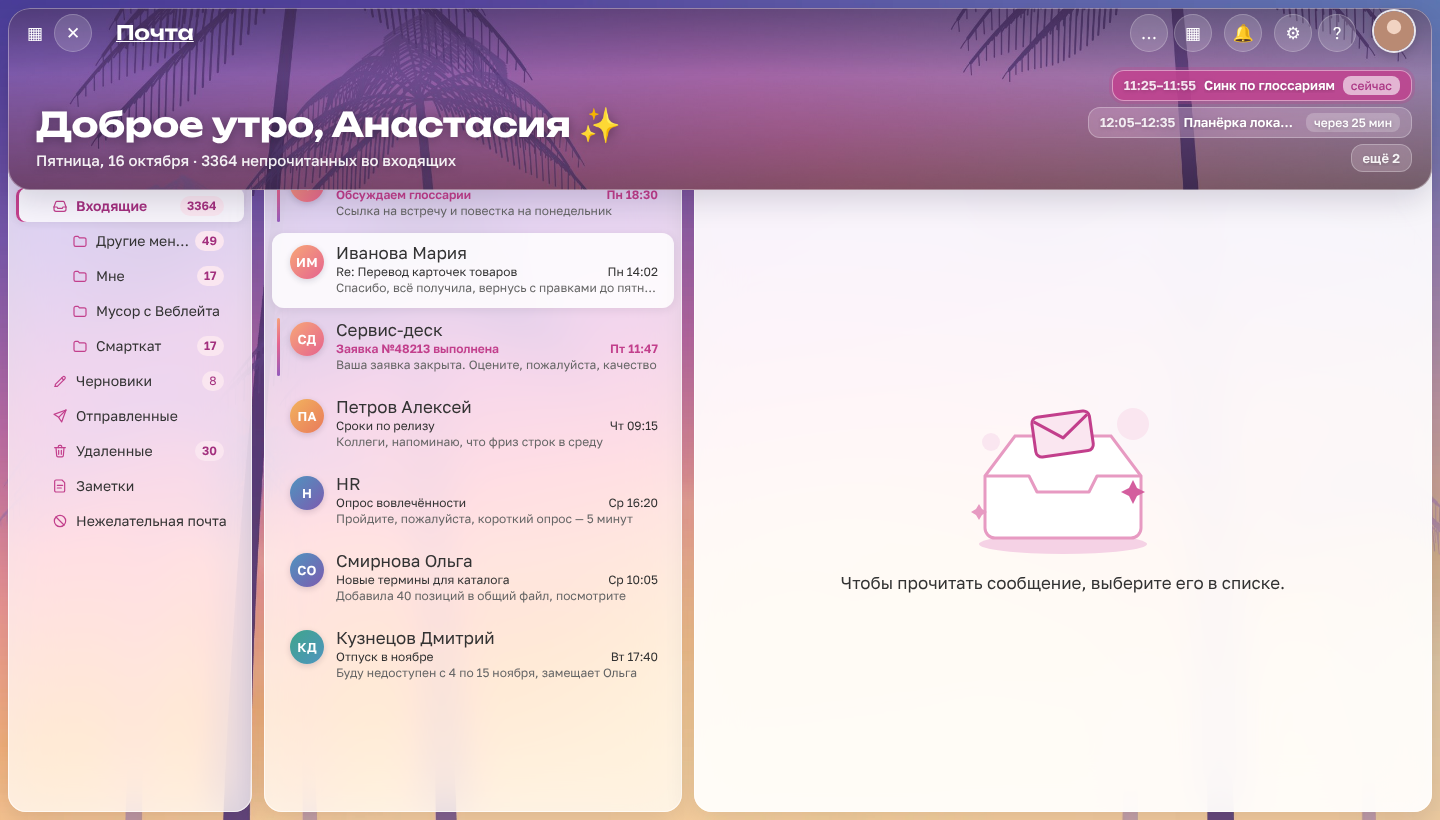
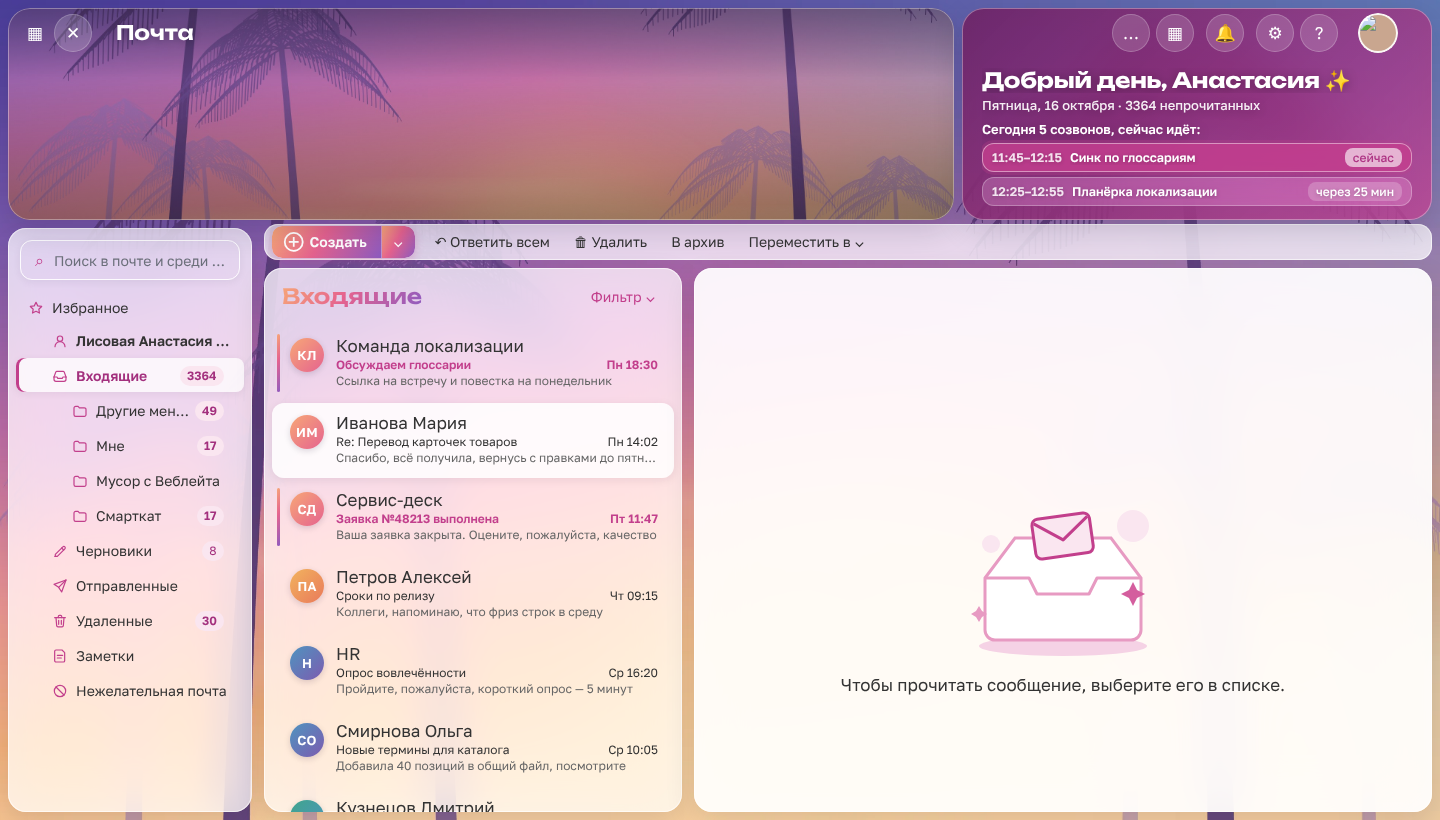
OWA Restyle 0.5: split header with a widget, tidy toolbar buttons
- Header splits into a wide picture banner and a widget card on the
  right holding the OWA buttons, greeting, date and today's calls;
  the widget can have its own picture; 'one wide banner' is still
  available in settings
- Calls list sized to the header height, no truncated greeting
- Toolbar buttons are 32px and vertically centred, 'Create' is a
  proper split button

Claude-Session: https://claude.ai/code/session_01MUPSdyJMeKqe5QhkT4sJWG

diff --git a/owa-restyle/glass.js b/owa-restyle/glass.js
@@ -110,6 +110,18 @@
     out.push("html ._n_q1::before{content:\"\";position:absolute;inset:0;border-radius:14px;background:var(--ors-glass);" + bf +
       ";box-shadow:inset 0 0 0 1px var(--ors-glass-line);z-index:-1;pointer-events:none}");
     out.push("html ._fce_a{border-bottom:0!important}");
+    // Кнопки на панели: ровная высота 32px по центру «пилюли», «Создать» — аккуратная кнопка с отдельной стрелкой.
+    out.push("html ._n_q1 ._n_r1,html ._n_q1 ._fce_a{height:100%!important;box-sizing:border-box}");
+    out.push("html ._n_q1 ._fce_a{display:flex!important;align-items:center;padding:0 6px!important}");
+    out.push("html ._n_q1 ._fce_b{display:flex!important;align-items:center;height:auto!important}");
+    out.push("html ._n_q1 ._fce_e{display:inline-flex!important;align-items:center;height:32px!important;margin:0 2px!important;padding:0!important;vertical-align:middle;border-radius:10px!important;overflow:hidden}");
+    out.push("html ._n_q1 ._fce_e>button{height:32px!important;line-height:32px!important;margin:0!important;padding:0 10px!important;display:inline-flex!important;align-items:center;gap:6px;border-radius:10px}");
+    out.push("html ._n_q1 ._fce_e>button:hover{background:rgba(255,255,255,.55)!important}");
+    out.push("html ._n_q1 ._fce_e>button .owaimg{line-height:1!important;margin:0!important;vertical-align:middle}");
+    out.push("html ._n_q1 button[title^=\"Создать новое сообщение\"]{padding:0 14px 0 12px!important;border-radius:10px 0 0 10px!important;color:#fff!important;font-weight:600!important}");
+    out.push("html ._n_q1 button[title^=\"Создать новое сообщение\"] ~ button[title^=\"Отобразить больше новых\"]{width:34px!important;padding:0!important;justify-content:center;border-radius:0 10px 10px 0!important;" +
+      "border-left:1px solid rgba(255,255,255,.35)!important}");
+    out.push("html ._n_q1 ._fce_e:has(button[title^=\"Создать новое сообщение\"]){box-shadow:0 2px 8px " + rgba(t.primary, .3) + ";margin-right:8px!important}");
 
     // Внутри карточек всё, что было белым/серым, — прозрачное.
     out.push([
@@ -193,28 +205,57 @@
       out.push("html #primaryHeaderView{height:" + H + "px!important;z-index:1}");
       out.push(["inset: 50px", "inset:50px", "top: 50px", "top:50px"].map(function (v) { return "html #primaryContainer>div[style*=\"" + v + "\"],html #primaryContainer>a[style*=\"" + v + "\"]"; }).join(",") + "{top:" + H + "px!important}");
       out.push("html ._n_c{height:" + H + "px!important}");
-      out.push("html #primaryHeaderView::before{content:\"\";position:absolute;inset:8px 8px 0 8px;border-radius:22px;z-index:-1;pointer-events:none;" +
-        "background:linear-gradient(180deg,rgba(0,0,0,.28) 0,rgba(0,0,0,0) 70px),linear-gradient(0deg,rgba(0,0,0,.36) 0,rgba(0,0,0,0) 65%)," + heroBg + ";" +
-        "box-shadow:inset 0 0 0 1px rgba(255,255,255,.35),0 10px 30px rgba(20,10,40,.15)}");
+      var split = s.heroLayout !== "wide" && H >= 150;
+      var card = "border-radius:22px;z-index:-1;pointer-events:none;box-shadow:inset 0 0 0 1px rgba(255,255,255,.35),0 10px 30px rgba(20,10,40,.15)";
+      var shade = "linear-gradient(180deg,rgba(0,0,0,.28) 0,rgba(0,0,0,0) 70px),linear-gradient(0deg,rgba(0,0,0,.36) 0,rgba(0,0,0,0) 65%),";
+      out.push(":root{--ors-w:min(470px,38vw)}");
+      out.push("html #primaryHeaderView::before{content:\"\";position:absolute;" +
+        (split ? "inset:8px calc(var(--ors-w) + 16px) 0 8px;" : "inset:8px 8px 0 8px;") + card + ";background:" + shade + heroBg + "}");
       out.push("html #O365_NavHeader,html #O365_NavHeader.o365cs-topnavBGImage,html .o365cs-topnavBGColor-2{background:transparent!important;margin:8px 8px 0;border-radius:22px 22px 0 0}");
-      out.push("html .ors-hero{position:absolute;left:36px;right:36px;bottom:20px;color:#fff;pointer-events:none;text-shadow:0 2px 12px rgba(0,0,0,.35)}");
-      out.push("html .ors-hero b{display:block;font:700 " + (H >= 150 ? 34 : 24) + "px/1.15 var(--ors-display, var(--ors-font, \"Segoe UI\", sans-serif));letter-spacing:-.01em}");
-      out.push("html .ors-hero span{display:block;margin-top:6px;font:500 15px/1.3 var(--ors-font, \"Segoe UI\", sans-serif);opacity:.92}");
-      if (H < 110) out.push("html .ors-hero span{display:none}");
-      out.push("html .ors-hero{right:330px}");
-      out.push("html .ors-meet{position:absolute;right:28px;bottom:18px;z-index:1;display:flex;flex-direction:column;align-items:flex-end;gap:6px;max-width:300px}");
-      out.push("html .ors-chip{display:flex;align-items:center;gap:8px;max-width:300px;padding:6px 12px;border-radius:12px;text-decoration:none!important;color:#fff!important;" +
+
+      // Общий вид текста и плашек созвонов.
+      out.push("html .ors-hero{position:absolute;color:#fff;pointer-events:none;text-shadow:0 2px 12px rgba(0,0,0,.35)}");
+      out.push("html .ors-hero>b{display:block;letter-spacing:-.01em;font-family:var(--ors-display, var(--ors-font, \"Segoe UI\", sans-serif));font-weight:700}");
+      out.push("html .ors-hero>span{display:block;font-family:var(--ors-font, \"Segoe UI\", sans-serif)}");
+      out.push("html .ors-hero>.ors-date{opacity:.92;font-weight:500}");
+      out.push("html .ors-hero>.ors-sum{font-weight:600}");
+      out.push("html .ors-hero [hidden]{display:none!important}");
+      out.push("html .ors-meet{display:flex;flex-direction:column;gap:5px}");
+      out.push("html .ors-chip{pointer-events:auto;display:flex;align-items:center;gap:8px;padding:6px 12px;border-radius:12px;text-decoration:none!important;color:#fff!important;" +
         "background:rgba(255,255,255,.18);box-shadow:inset 0 0 0 1px rgba(255,255,255,.28);" + bf + ";font:500 13px/1.25 var(--ors-font, \"Segoe UI\", sans-serif);" +
-        "text-shadow:0 1px 4px rgba(0,0,0,.25);transition:background-color .15s}");
+        "text-shadow:0 1px 4px rgba(0,0,0,.25);transition:background-color .15s;min-width:0}");
       out.push("html .ors-chip:hover{background:rgba(255,255,255,.3)}");
       out.push("html .ors-chip i{font-style:normal;font-weight:600;opacity:.85;white-space:nowrap}");
-      out.push("html .ors-chip b{font-weight:600;white-space:nowrap;overflow:hidden;text-overflow:ellipsis;min-width:0}");
+      out.push("html .ors-chip b{flex:1;font-weight:600;white-space:nowrap;overflow:hidden;text-overflow:ellipsis;min-width:0}");
       out.push("html .ors-chip em{font-style:normal;white-space:nowrap;padding:2px 8px;border-radius:8px;background:rgba(255,255,255,.22);font-size:12px}");
       out.push("html .ors-chip.now{background:" + rgba(t.primary, .82) + ";box-shadow:inset 0 0 0 1px rgba(255,255,255,.45),0 0 0 3px " + rgba(t.primary, .25) + "}");
       out.push("html .ors-chip.now em{background:#fff;color:" + t.dark + ";text-shadow:none;animation:orsPulse 2s ease-in-out infinite}");
       out.push("@keyframes orsPulse{50%{opacity:.6}}");
       out.push("html .ors-chip.allday i,html .ors-chip.more b,html .ors-chip.done b{opacity:.9}");
-      if (H < 150) out.push("html .ors-meet{bottom:auto;top:50%;transform:translateY(-10%)}");
+
+      if (split) {
+        // Виджет справа: своя картинка или градиент темы, внутри — кнопки OWA, приветствие и созвоны.
+        var widgetBg = extras.widgetImage
+          ? "linear-gradient(0deg,rgba(0,0,0,.55) 0,rgba(0,0,0,.18) 60%,rgba(0,0,0,.3) 100%),url(\"" + extras.widgetImage + "\") center " + (+s.widgetPos || 50) + "%/cover no-repeat"
+          : "linear-gradient(135deg," + rgba(t.darker, .86) + "," + rgba(t.primary, .74) + ")";
+        out.push("html #primaryHeaderView::after{content:\"\";position:absolute;top:8px;right:8px;bottom:0;width:var(--ors-w);" + card + ";background:" + widgetBg + ";" + bf + "}");
+        out.push("html .ors-hero{left:auto;right:28px;width:calc(var(--ors-w) - 40px);top:60px;bottom:14px;display:flex;flex-direction:column;justify-content:flex-end;overflow:hidden}");
+        out.push("html .ors-hero>b{font-size:" + (H >= 240 ? 24 : 21) + "px;line-height:1.2;white-space:nowrap;overflow:hidden;text-overflow:ellipsis;flex:none}");
+        out.push("html .ors-hero>.ors-date{margin-top:4px;font-size:13px}");
+        out.push("html .ors-hero>.ors-sum{margin-top:8px;font-size:13px}");
+        out.push("html .ors-hero>*{flex:none}");
+        out.push("html .ors-meet{margin-top:6px}");
+        out.push("html .ors-chip{padding:5px 10px;font-size:12.5px}");
+      } else {
+        out.push("html .ors-hero{left:36px;right:330px;bottom:20px}");
+        out.push("html .ors-hero>b{font-size:" + (H >= 150 ? 34 : 24) + "px;line-height:1.15}");
+        out.push("html .ors-hero>.ors-date,html .ors-hero>.ors-sum{margin-top:6px;font-size:15px;line-height:1.3}");
+        out.push("html .ors-hero>.ors-sum{margin-top:2px}");
+        if (H < 110) out.push("html .ors-hero>.ors-date,html .ors-hero>.ors-sum{display:none}");
+        out.push("html .ors-meet{position:absolute;right:-302px;bottom:-2px;width:300px;align-items:flex-end}");
+        out.push("html .ors-chip{max-width:300px}");
+        if (H < 150) out.push("html .ors-meet{bottom:auto;top:50%;transform:translateY(-50%)}");
+      }
     }
 
     // Своя картинка в пустой области чтения (пока письмо не открыто).

diff --git a/owa-restyle/content.js b/owa-restyle/content.js
@@ -29,12 +29,14 @@
           settings = s;
           var hero = s.heroImage && s.heroImage !== "wallpaper" &&
             (local.images || []).filter(function (i) { return i.id === s.heroImage; })[0];
+          var widget = s.widgetImage && s.widgetImage !== "none" &&
+            (local.images || []).filter(function (i) { return i.id === s.widgetImage; })[0];
           var reading = s.readingImage && s.readingImage !== "none" &&
             (local.images || []).filter(function (i) { return i.id === s.readingImage; })[0];
           // В календаре OWA вёрстка завязана на ширину Segoe UI — там оставляем родной шрифт.
           var css = isCalendar() ? Object.assign({}, s, { font: "original" }) : s;
           style.textContent = R.buildCss(css, urlFor, { wallpaper: wall, emptyImage: local.emptyImage,
-            heroImage: hero ? hero.data : null, readingImage: reading ? reading.data : null });
+            heroImage: hero ? hero.data : null, readingImage: reading ? reading.data : null, widgetImage: widget ? widget.data : null });
           document.documentElement.classList.toggle("ors-glass", s.style === "glass");
           schedule();
         });
@@ -150,39 +152,45 @@
       setText(greet, hello + " ✨");
     } else if (greet) greet.remove();
 
-    // Крупный текст на баннере.
+    // Текст шапки: в режиме «баннер + виджет» он живёт в виджете справа, в режиме «широкая» — на баннере.
+    var H = +settings.heroHeight || 50;
+    var split = settings.heroLayout !== "wide" && H >= 150;
+    var meetOn = heroOn && settings.meetings !== false && !!window.OWA_RESTYLE_MEETINGS;
     var headerView = document.getElementById("primaryHeaderView");
     var hero = document.querySelector(".ors-hero");
-    if (heroOn && greetOn && headerView) {
+    if (heroOn && (greetOn || meetOn || split) && headerView) {
       if (!hero) {
         hero = document.createElement("div");
         hero.className = "ors-hero";
-        hero.appendChild(document.createElement("b"));
-        hero.appendChild(document.createElement("span"));
+        ["b", "span", "span", "div"].forEach(function (tag) { hero.appendChild(document.createElement(tag)); });
+        hero.children[1].className = "ors-date";
+        hero.children[2].className = "ors-sum";
+        hero.children[3].className = "ors-meet";
         headerView.appendChild(hero);
       }
       var n = inboxUnread();
       var sub = DAYS[now.getDay()] + ", " + now.getDate() + " " + MONTHS[now.getMonth()] +
-        (n ? " · " + n + " " + plural(n, "непрочитанное", "непрочитанных", "непрочитанных") + " во входящих" : "");
+        (n ? " · " + n + " " + plural(n, "непрочитанное", "непрочитанных", "непрочитанных") + (split ? "" : " во входящих") : "");
+      hero.children[0].hidden = !greetOn;
       setText(hero.children[0], hello + " ✨");
-      setText(hero.children[1], sub + (meetSummary ? " · " + meetSummary : ""));
-    } else if (hero) hero.remove();
-
-    // Встречи на сегодня — справа на баннере.
-    var meetBox = document.querySelector(".ors-meet");
-    if (heroOn && settings.meetings !== false && headerView && window.OWA_RESTYLE_MEETINGS) {
-      if (!meetBox) {
-        meetBox = document.createElement("div");
-        meetBox.className = "ors-meet";
-        headerView.appendChild(meetBox);
+      setText(hero.children[1], sub);
+      setText(hero.children[2], meetOn ? meetSummary : "");
+      hero.children[2].hidden = !meetOn || !meetSummary;
+      var meetBox = hero.children[3];
+      if (meetOn) {
+        var max = split ? (H >= 250 ? 3 : H >= 210 ? 2 : 1) : (H >= 150 ? 3 : 1);
+        window.OWA_RESTYLE_MEETINGS.load().then(function (items) {
+          renderMeetings(meetBox, items, max, !split);
+          var s = summarize(items, split);
+          if (s !== meetSummary) { meetSummary = s; schedule(); }
+        });
+      } else {
+        meetBox.textContent = "";
+        meetBox.removeAttribute("data-html");
+        meetSummary = "";
       }
-      window.OWA_RESTYLE_MEETINGS.load().then(function (items) {
-        renderMeetings(meetBox, items);
-        var s = summarize(items);
-        if (s !== meetSummary) { meetSummary = s; schedule(); }
-      });
     } else {
-      if (meetBox) meetBox.remove();
+      if (hero) hero.remove();
       meetSummary = "";
     }
   }
@@ -194,7 +202,7 @@
   function short(s) { return s.length > 40 ? s.slice(0, 39) + "…" : s; }
 
   // Сводка для строки под приветствием.
-  function summarize(items) {
+  function summarize(items, split) {
     if (!items) return "";
     var now = new Date();
     var timed = items.filter(function (m) { return !m.allDay; });
@@ -202,9 +210,11 @@
     var current = timed.filter(function (m) { return m.start <= now && m.end > now; })[0];
     var upcoming = timed.filter(function (m) { return m.start > now; });
     if (current) {
+      if (split) return "Сегодня " + calls(timed.length) + ", сейчас идёт:";
       return "Сейчас созвон «" + short(current.subject) + "»" + (upcoming.length ? ", потом ещё " + calls(upcoming.length) : "");
     }
     if (!upcoming.length) return "Созвоны на сегодня закончились 🎉";
+    if (split) return "Сегодня " + calls(timed.length) + (upcoming.length < timed.length ? ", осталось " + upcoming.length : "") + ":";
     return calls(timed.length) + " сегодня, " + (upcoming.length < timed.length ? "следующий" : "ближайший") + " в " + hhmm(upcoming[0].start);
   }
 
@@ -217,27 +227,26 @@
     return "через " + h + " ч" + (r ? " " + r + " мин" : "");
   }
 
-  function renderMeetings(box, items) {
+  function renderMeetings(box, items, max, showDone) {
     if (!items) { if (box.childNodes.length) box.textContent = ""; return; } // не загрузилось — молчим
     var now = new Date();
-    var big = (+settings.heroHeight || 50) >= 150;
+    var big = max > 1;
     var allDay = items.filter(function (m) { return m.allDay; });
     var left = items.filter(function (m) { return !m.allDay && m.end > now; });
-    var max = big ? 3 : 1;
     var html = [];
     function chip(cls, time, subject, tail, title) {
       return '<a class="ors-chip ' + cls + '" href="/owa/#path=/calendar" title="' + esc(title) + '"><i>' + esc(time) + "</i><b>" +
         esc(subject) + "</b>" + (tail ? "<em>" + esc(tail) + "</em>" : "") + "</a>";
     }
-    var show = max === 1 ? 1 : (left.length > max ? max - 1 : max);
+    var show = (max === 1 || !showDone) ? Math.min(max, left.length) : (left.length > max ? max - 1 : max);
     left.slice(0, show).forEach(function (m, i) {
       var nowOn = m.start <= now;
       var tail = nowOn ? "сейчас" : (i === 0 || (left[0].start <= now && i === 1)) ? inMinutes(m.start - now) : "";
       html.push(chip(nowOn ? "now" : (tail ? "next" : ""), hhmm(m.start) + "–" + hhmm(m.end), m.subject, tail,
         m.subject + (m.location ? " · " + m.location : "")));
     });
-    if (left.length > show && max > 1) html.push('<a class="ors-chip more" href="/owa/#path=/calendar"><b>ещё ' + calls(left.length - show) + "</b></a>");
-    if (!left.length) {
+    if (left.length > show && max > 1 && showDone) html.push('<a class="ors-chip more" href="/owa/#path=/calendar"><b>ещё ' + calls(left.length - show) + "</b></a>");
+    if (!left.length && showDone) {
       html.push('<a class="ors-chip done" href="/owa/#path=/calendar"><b>' +
         (items.length - allDay.length ? "Созвоны на сегодня закончились 🎉" : "Сегодня без созвонов 🎉") + "</b></a>");
     }
@@ -315,7 +324,7 @@
     new MutationObserver(function (muts) {
       for (var i = 0; i < muts.length; i++) {
         var n = muts[i].target;
-        if (n && n.classList && (n.classList.contains("ors-av") || n.classList.contains("ors-greet") || n.classList.contains("ors-hero") || n.classList.contains("ors-meet") || (n.closest && n.closest(".ors-meet")) || (n.parentElement && n.parentElement.classList && n.parentElement.classList.contains("ors-hero")))) continue;
+        if (n && n.classList && (n.classList.contains("ors-av") || n.classList.contains("ors-greet") || n.classList.contains("ors-hero") || (n.closest && n.closest(".ors-hero")) || (n.parentElement && n.parentElement.classList && n.parentElement.classList.contains("ors-hero")))) continue;
         schedule();
         return;
       }

diff --git a/owa-restyle/settings.js b/owa-restyle/settings.js
@@ -59,6 +59,26 @@
     return b;
   }
 
+  // Галерея «своих» картинок для одного места (шапка, виджет, область чтения).
+  function gallery(id, key, noneLabel, noneValue, posKey) {
+    var box = $(id); box.innerHTML = "";
+    var none = wallTile(noneLabel, null, !cur[key] || cur[key] === noneValue, function () { var p = {}; p[key] = noneValue; save(p); });
+    none.style.background = "repeating-linear-gradient(45deg,#f1eff6 0 8px,#fafafa 8px 16px)";
+    none.querySelector("span").style.color = "#6b7280";
+    none.querySelector("span").style.background = "none";
+    box.appendChild(none);
+    (local.images || []).forEach(function (img) {
+      var tile = wallTile(img.name || "Моя картинка", "url(" + img.data + ")", cur[key] === img.id, function () { var p = {}; p[key] = img.id; save(p); });
+      tile.style.backgroundPosition = "center " + cur[posKey] + "%";
+      box.appendChild(tile);
+    });
+    var add = wallTile("+ Загрузить", null, false, function () {
+      if (popup) chrome.runtime.openOptionsPage(); else { uploadTarget = key; $("wallFile").click(); }
+    });
+    add.classList.add("add");
+    box.appendChild(add);
+  }
+
   function render() {
     var glass = cur.style === "glass";
     $("glassOnly").hidden = !glass;
@@ -90,6 +110,7 @@
           if (cur.wallpaper === img.id) save({ wallpaper: "theme" });
           if (cur.heroImage === img.id) save({ heroImage: "wallpaper" });
           if (cur.readingImage === img.id) save({ readingImage: "none" });
+          if (cur.widgetImage === img.id) save({ widgetImage: "none" });
         }));
     });
     var add = wallTile("+ Загрузить свою", null, false, function () {
@@ -98,41 +119,22 @@
     add.classList.add("add");
     walls.appendChild(add);
 
-    var heroes = $("heroes"); heroes.innerHTML = "";
-    heroes.appendChild(wallTile("Как фон", null, cur.heroImage === "wallpaper", function () { save({ heroImage: "wallpaper" }); }));
-    heroes.firstChild.style.background = "repeating-linear-gradient(45deg,#f1eff6 0 8px,#fafafa 8px 16px)";
-    heroes.firstChild.querySelector("span").style.color = "#6b7280";
-    heroes.firstChild.querySelector("span").style.background = "none";
-    (local.images || []).forEach(function (img) {
-      var tile = wallTile(img.name || "Моя картинка", "url(" + img.data + ")", cur.heroImage === img.id, function () { save({ heroImage: img.id }); });
-      tile.style.backgroundPosition = "center " + cur.heroPos + "%";
-      heroes.appendChild(tile);
-    });
-    var addHero = wallTile("+ Загрузить", null, false, function () {
-      if (popup) chrome.runtime.openOptionsPage(); else { uploadTarget = "heroImage"; $("wallFile").click(); }
-    });
-    addHero.classList.add("add");
-    heroes.appendChild(addHero);
-    var readings = $("readings"); readings.innerHTML = "";
-    var none = wallTile("Без картинки", null, cur.readingImage === "none" || !cur.readingImage, function () { save({ readingImage: "none" }); });
-    none.style.background = "repeating-linear-gradient(45deg,#f1eff6 0 8px,#fafafa 8px 16px)";
-    none.querySelector("span").style.color = "#6b7280";
-    none.querySelector("span").style.background = "none";
-    readings.appendChild(none);
-    (local.images || []).forEach(function (img) {
-      var tile = wallTile(img.name || "Моя картинка", "url(" + img.data + ")", cur.readingImage === img.id, function () { save({ readingImage: img.id }); });
-      tile.style.backgroundPosition = "center " + cur.readingPos + "%";
-      readings.appendChild(tile);
-    });
-    var addReading = wallTile("+ Загрузить", null, false, function () {
-      if (popup) chrome.runtime.openOptionsPage(); else { uploadTarget = "readingImage"; $("wallFile").click(); }
-    });
-    addReading.classList.add("add");
-    readings.appendChild(addReading);
+    gallery("heroes", "heroImage", "Как фон", "wallpaper", "heroPos");
+    gallery("widgets", "widgetImage", "Цвет темы", "none", "widgetPos");
+    gallery("readings", "readingImage", "Без картинки", "none", "readingPos");
     $("readingPosWrap").hidden = !cur.readingImage || cur.readingImage === "none";
-    $("readingPos").value = cur.readingPos;
+    $("widgetPosWrap").hidden = !cur.widgetImage || cur.widgetImage === "none";
+    $("widgetWrap").hidden = cur.heroLayout === "wide" || (+cur.heroHeight || 50) < 150;
 
-    if (document.activeElement !== $("greetingName")) $("greetingName").value = cur.greetingName || "";
+    var lay = $("heroLayouts"); lay.innerHTML = "";
+    [["split", "Баннер + виджет", "Картинка слева, приветствие и созвоны справа"], ["wide", "Один баннер", "Картинка на всю ширину"]].forEach(function (o) {
+      var b = btn((cur.heroLayout || "split") === o[0] ? "on" : "", "<b></b><small></small>");
+      b.querySelector("b").textContent = o[1];
+      b.querySelector("small").textContent = o[2];
+      b.onclick = function () { save({ heroLayout: o[0] }); };
+      lay.appendChild(b);
+    });
+
     $("heroHeight").value = cur.heroHeight;
     $("heroPos").value = cur.heroPos;
 
@@ -230,7 +232,7 @@
   $("emptyReset").onclick = function () { saveLocal({ emptyImage: null }); };
   $("openFull").onclick = function () { chrome.runtime.openOptionsPage(); };
 
-  ["dim", "blur", "heroHeight", "heroPos", "readingPos"].forEach(function (k) {
+  ["dim", "blur", "heroHeight", "heroPos", "readingPos", "widgetPos"].forEach(function (k) {
     var timer = null;
     $(k).oninput = function () {
       var v = +this.value;

diff --git a/owa-restyle/settings.html b/owa-restyle/settings.html
@@ -27,13 +27,22 @@
 
     <section id="glassOnly3">
       <h2>Шапка</h2>
+      <div id="heroLayouts" class="seg"></div>
       <div class="sliders">
         <label>Высота шапки <input id="heroHeight" type="range" min="50" max="320" step="10"></label>
       </div>
       <div id="heroWrap">
+        <p class="sub">Картинка баннера</p>
         <div id="heroes" class="walls"></div>
         <div class="sliders">
           <label>Сдвиг картинки ↕ <input id="heroPos" type="range" min="0" max="100" step="1"></label>
+        </div>
+        <div id="widgetWrap">
+          <p class="sub">Картинка виджета справа (приветствие, дата, созвоны)</p>
+          <div id="widgets" class="walls"></div>
+          <div class="sliders" id="widgetPosWrap">
+            <label>Сдвиг картинки ↕ <input id="widgetPos" type="range" min="0" max="100" step="1"></label>
+          </div>
         </div>
       </div>
     </section>

diff --git a/owa-restyle/themes.js b/owa-restyle/themes.js
@@ -273,7 +273,7 @@
   root.OWA_RESTYLE = {
     THEMES: THEMES,
     FONTS: FONTS,
-    DEFAULTS: { style: "glass", theme: "cloud", font: "golos", wallpaper: "theme", dim: 15, blur: 24, greeting: true, avatars: true, folderIcons: true, heroHeight: 170, heroImage: "wallpaper", heroPos: 30, readingImage: "none", readingPos: 50, greetingName: "", meetings: true },
+    DEFAULTS: { style: "glass", theme: "cloud", font: "golos", wallpaper: "theme", dim: 15, blur: 24, greeting: true, avatars: true, folderIcons: true, heroHeight: 220, heroImage: "wallpaper", heroPos: 30, readingImage: "none", readingPos: 50, greetingName: "", meetings: true, heroLayout: "split", widgetImage: "none", widgetPos: 50 },
     buildCss: buildCss
   };
 })(typeof window !== "undefined" ? window : globalThis);

diff --git a/owa-restyle/README.md b/owa-restyle/README.md
@@ -12,7 +12,8 @@
 - **Стекло** — обои на весь экран, папки, список писем, панель команд и область чтения превращаются
   в полупрозрачные карточки с размытием. Плюс украшения: аватарки с инициалами у писем, иконки у папок,
   приветствие в шапке («Добрый день, Анастасия ✨»), иллюстрации в пустых папках и в пустой области чтения.
-  Высокая **шапка-баннер** со своей картинкой (высота и сдвиг картинки настраиваются), крупным приветствием,
+  Высокая **шапка** из двух карточек: слева баннер со своей картинкой, справа виджет (тоже можно со своей картинкой)
+  с кнопками OWA, приветствием,
   датой, числом непрочитанных и **созвонами на сегодня** из календаря: сводка вроде «4 созвона сегодня, следующий в 15:00», текущий подсвечен, у следующего — «через N мин». В **области чтения**, пока письмо не открыто, может стоять своя картинка.
 - **Классика** — только цвета темы и шрифт, без обоев и карточек.
 
